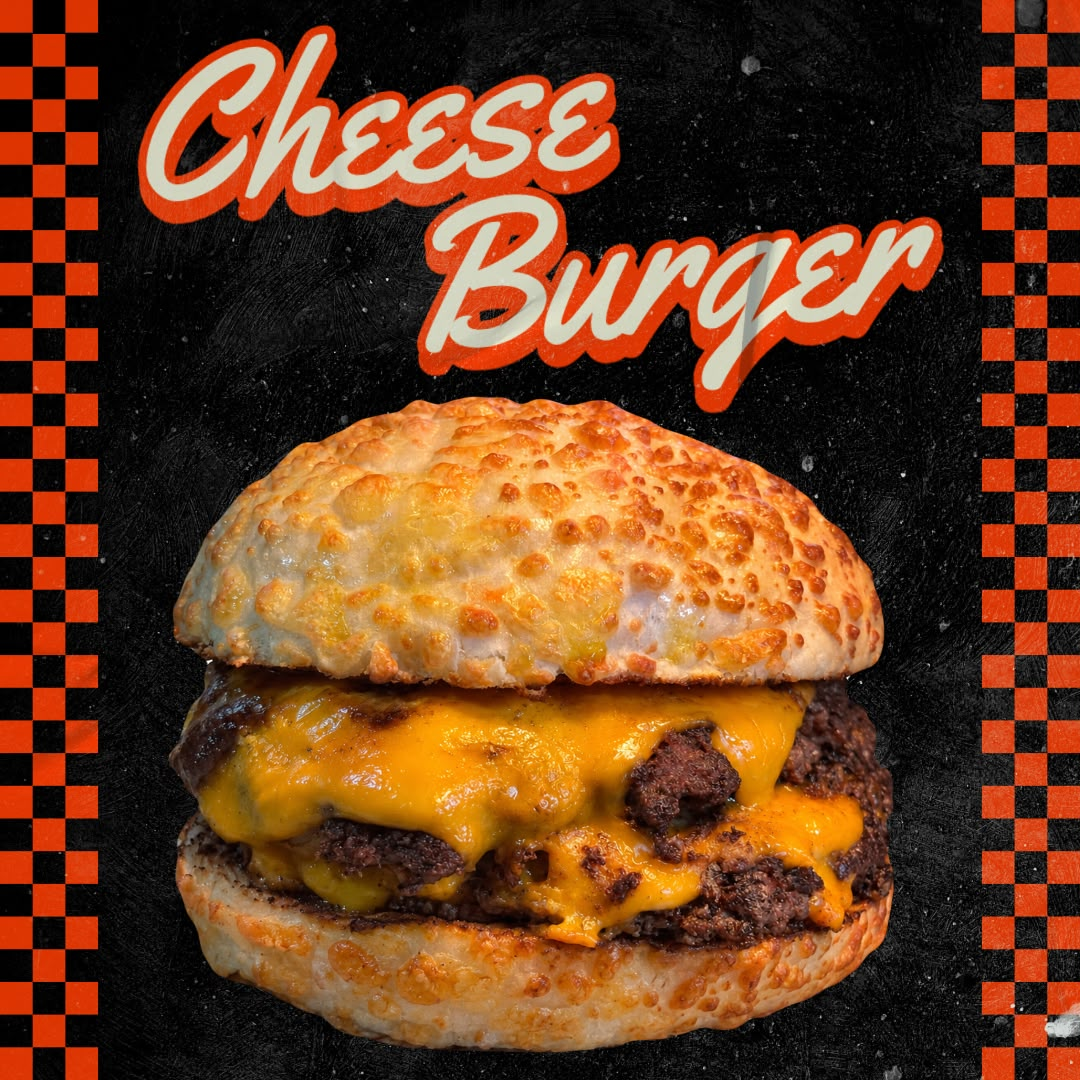
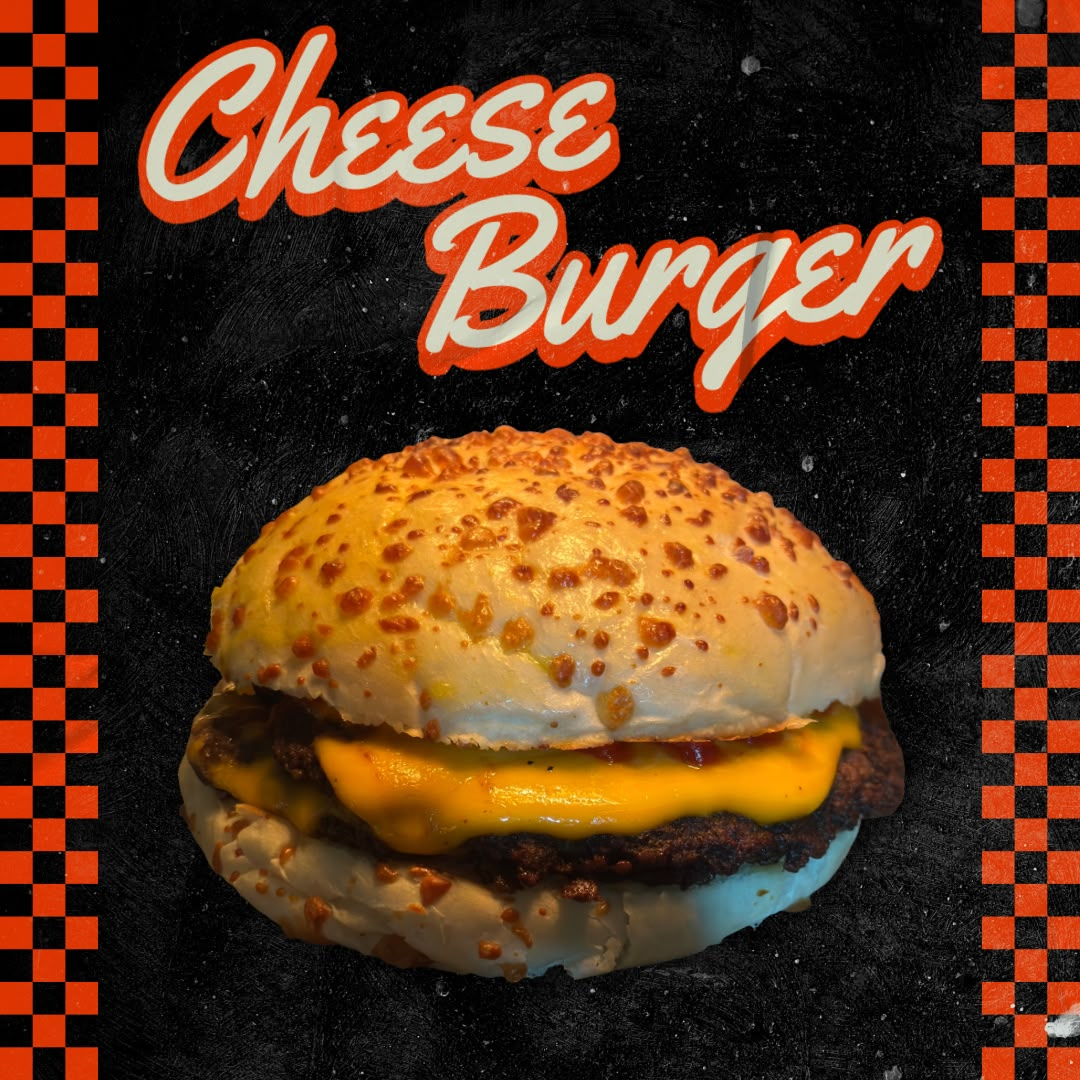
Add files via upload

diff --git a/index.html b/index.html
@@ -409,7 +409,7 @@
             <div class="product-card">
                 <img src="cheeseburger.png" alt="Cheese Burger">
                 <div class="product-name">Cheese Burger</div>
-                <p class="product-desc">Pan de Papa + Medallón de Carne de 180g + Q. Cheddar + Ketchup + Mostaza.</p>
+                <p class="product-desc">Pan de Papa + Medallón de Carne de 180g + Cheddar + Ketchup + Mayo.</p>
                 <div class="options-container">
                     <div class="option-row">
                         <span class="option-label">Simple</span>
